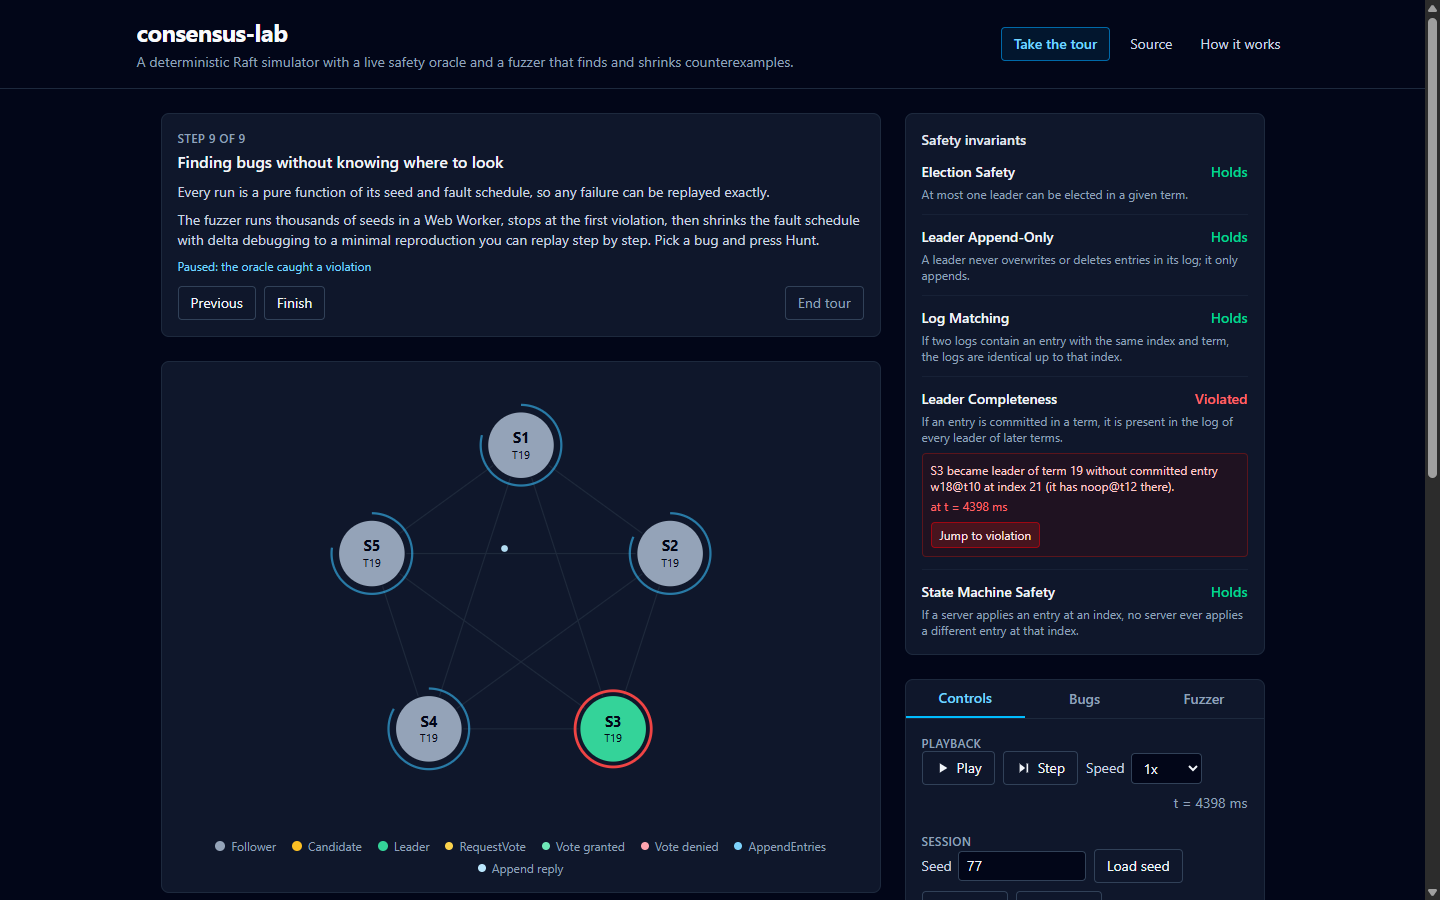
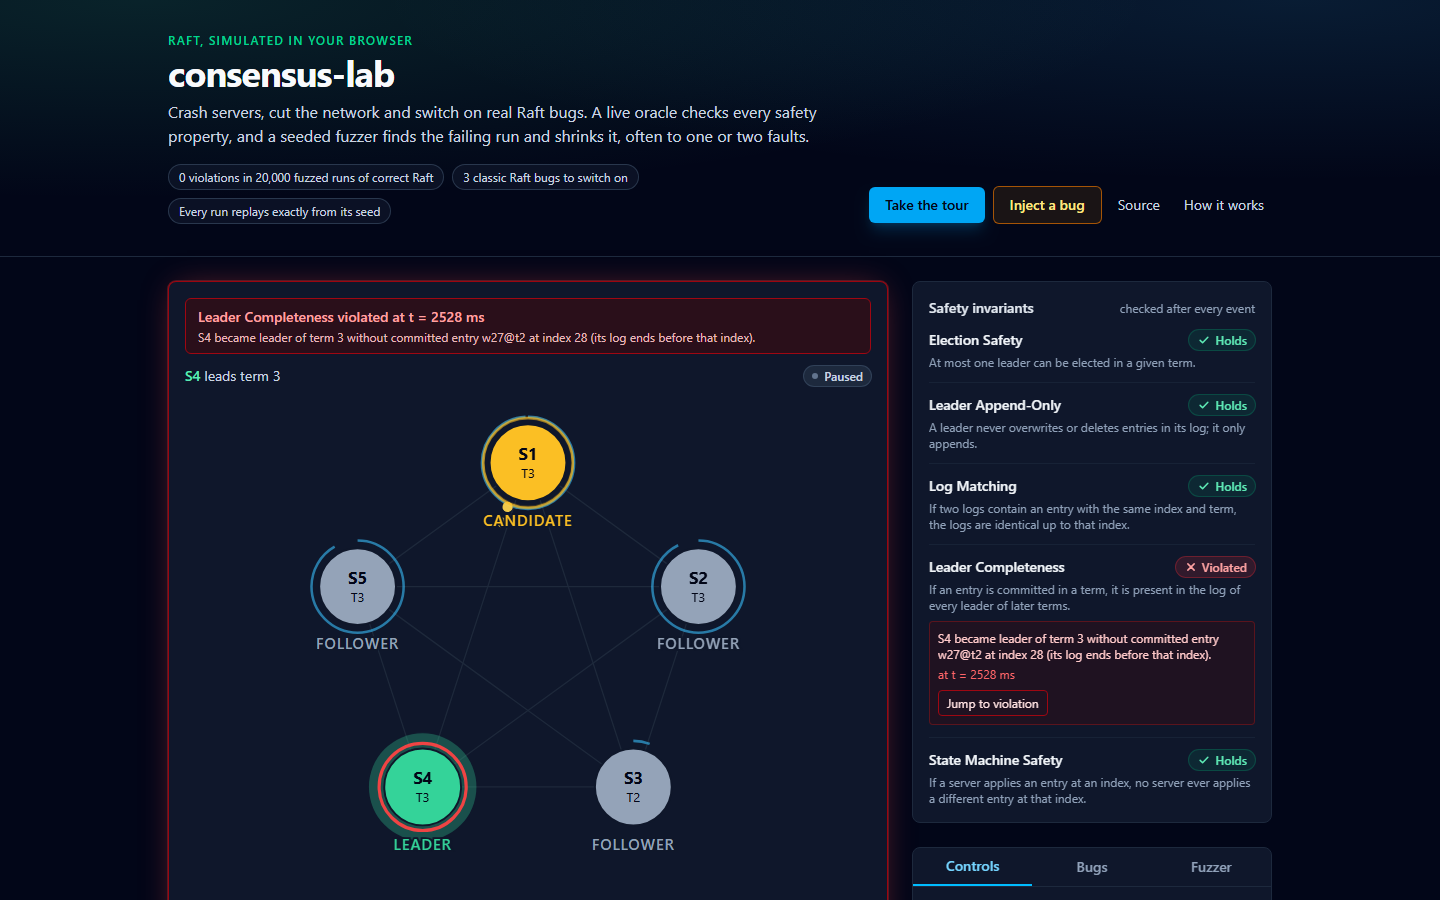
docs: refresh screenshots, social card and design notes for the new UI

diff --git a/README.md b/README.md
@@ -4,21 +4,22 @@ A deterministic simulator of the [Raft](https://raft.github.io/) consensus algor
 
 **Live demo: https://faizkhairi.github.io/consensus-lab/**
 
-![The fuzzer's shrunk counterexample replayed: S3 wins term 19 without a committed entry, and the oracle flags Leader Completeness](docs/fuzzer-replay.png)
+![The fuzzer's shrunk counterexample replayed: S4 wins term 3 without a committed entry, and the oracle flags Leader Completeness](docs/fuzzer-replay.png)
 
 ![Log replication in the guided tour: the leader S5 has replicated three writes to every server](docs/replication.png)
 
 ## What you can do
 
 - **Watch Raft work.** Messages move between servers. Each server shows its election timer, and every log entry is coloured by its term. The guided tour covers election, replication, a leader crash, a network partition and the heal.
-- **Break things.** Crash and restart servers, isolate the leader, partition the cluster, raise message loss and send client writes.
+- **Break things.** Click a server to crash it and again to restart it, isolate the leader, partition the cluster, raise message loss and send client writes.
 - **Inject a bug.** Three well-known Raft mistakes, each behind one flag:
   - committing entries from earlier terms (the Figure 8 scenario);
   - forgetting `votedFor` on restart;
   - granting votes without the up-to-date check.
-- **See the oracle catch it.** The five properties from Figure 3 of the Raft paper are checked after every event. When one breaks, the run pauses at the exact event.
+- **See the oracle catch it.** The five properties from Figure 3 of the Raft paper are checked after every event. When one breaks, the run pauses at the exact event and the cluster card names the property and the event that broke it.
 - **Hunt with the fuzzer.** A Web Worker runs thousands of seeded runs with random faults. When one fails, delta debugging shrinks the fault schedule, often down to one or two faults, and you can replay the result.
 - **Travel in time and share.** Every run is deterministic, so you can scrub the timeline back and forth or step back one event at a time (Left arrow). A share link reproduces the exact run on another machine.
+- **Use it on a phone.** Below desktop width a playback dock (Back, Play or Pause, Step) stays at the bottom of the screen, so you can control the run while watching the cluster.
 
 ## How it works
 
@@ -77,7 +78,7 @@ docs/         design notes
 - Each safety check has a positive control: a hand-built bad state that the check must report.
 - Property tests (fast-check) generate random fault schedules and assert that safety holds, that runs are deterministic, and that the cluster recovers once faults stop.
 - Pinned counterexamples must fail with their bug switched on and pass with it off.
-- Playwright tests the built site: the election on load, stepping forward and back, share-link replay, the tour (including ending it mid-step), and fuzz-then-replay. They fail on any console error and run an axe accessibility scan.
+- Playwright tests the built site: the election on load, stepping forward and back, share-link replay and its violation banner, crashing a server by clicking it, the Inject a bug shortcut, the phone playback dock, the tour (including ending it mid-step), and fuzz-then-replay. They fail on any console error and run an axe accessibility scan at desktop and phone widths.
 
 The site deploys only after every check passes.
 

diff --git a/docs/DESIGN.md b/docs/DESIGN.md
@@ -118,6 +118,10 @@ Time travel is re-simulation. Scrubbing backwards rebuilds the cluster from its 
 
 The fuzzer runs in a Web Worker in slices of 25 seeds and yields between slices, so the page stays responsive and a stop request takes effect promptly.
 
+Below the `lg` breakpoint a fixed playback dock (Back, Play or Pause, Step) keeps the controls in reach while the cluster is on screen. At `lg` and above it is `display: none`, which also removes it from the accessibility tree, so each control has one accessible name per viewport.
+
+The social card `public/og.png` is a 1200x630 screenshot of the built site opened on the share link for the pinned Figure 8 counterexample (`PINNED.commitPriorTerm`), taken once the cluster card shows the violation.
+
 ## 8. Testing
 
 | Layer | What it covers |
@@ -129,6 +133,6 @@ The fuzzer runs in a Web Worker in slices of 25 seeds and yields between slices,
 | fuzz | 300 seeds in the unit suite; 20,000 in CI; each bug is caught within a seed budget and shrinks to a smaller schedule that still fails |
 | pinned counterexamples | still fail with the bug on, pass with it off |
 | tour | every guided-tour step reaches its end state headlessly |
-| end to end (Playwright) | election on load, share-link replay, tour, fuzz and replay, zero console errors, axe with no serious or critical findings |
+| end to end (Playwright) | election on load, share-link replay and its violation banner, crashing a server by clicking it, the Inject a bug shortcut, the phone playback dock (no horizontal scroll at 320 px), tour, fuzz and replay, zero console errors, axe with no serious or critical findings at desktop and phone widths |
 
 Coverage of `src/sim` is enforced at 90% lines, functions and statements and 80% branches.
